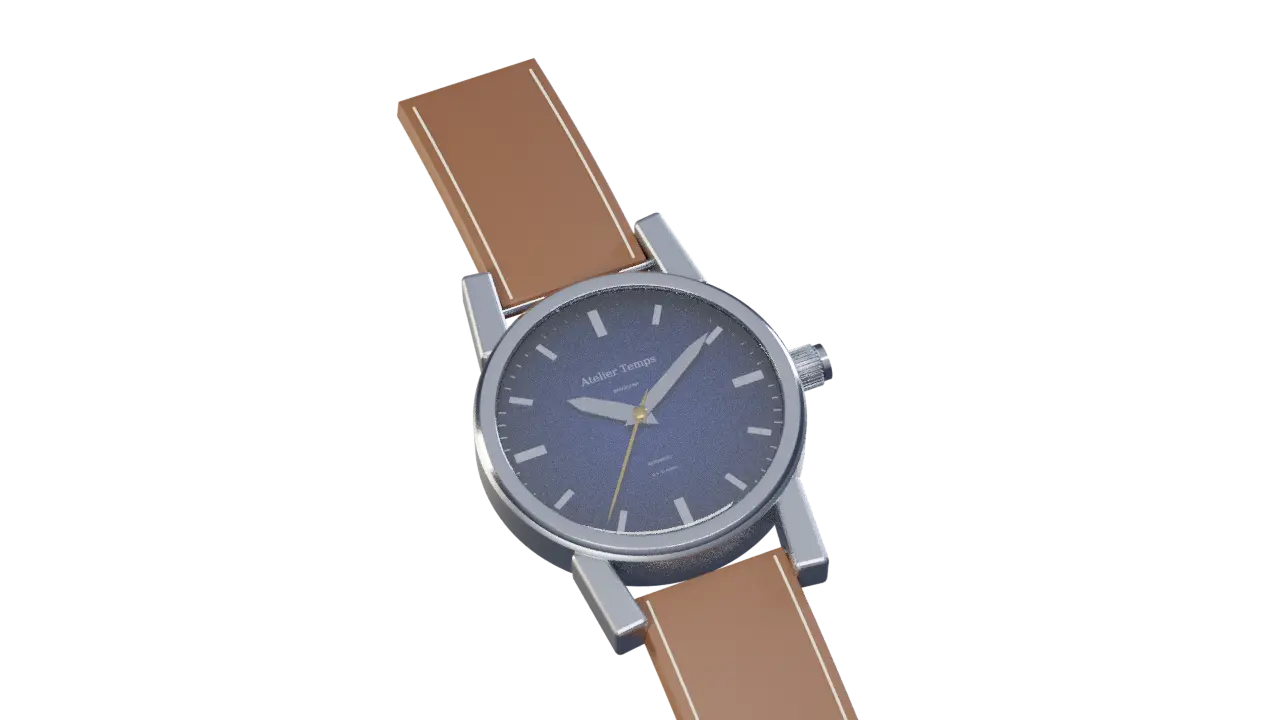
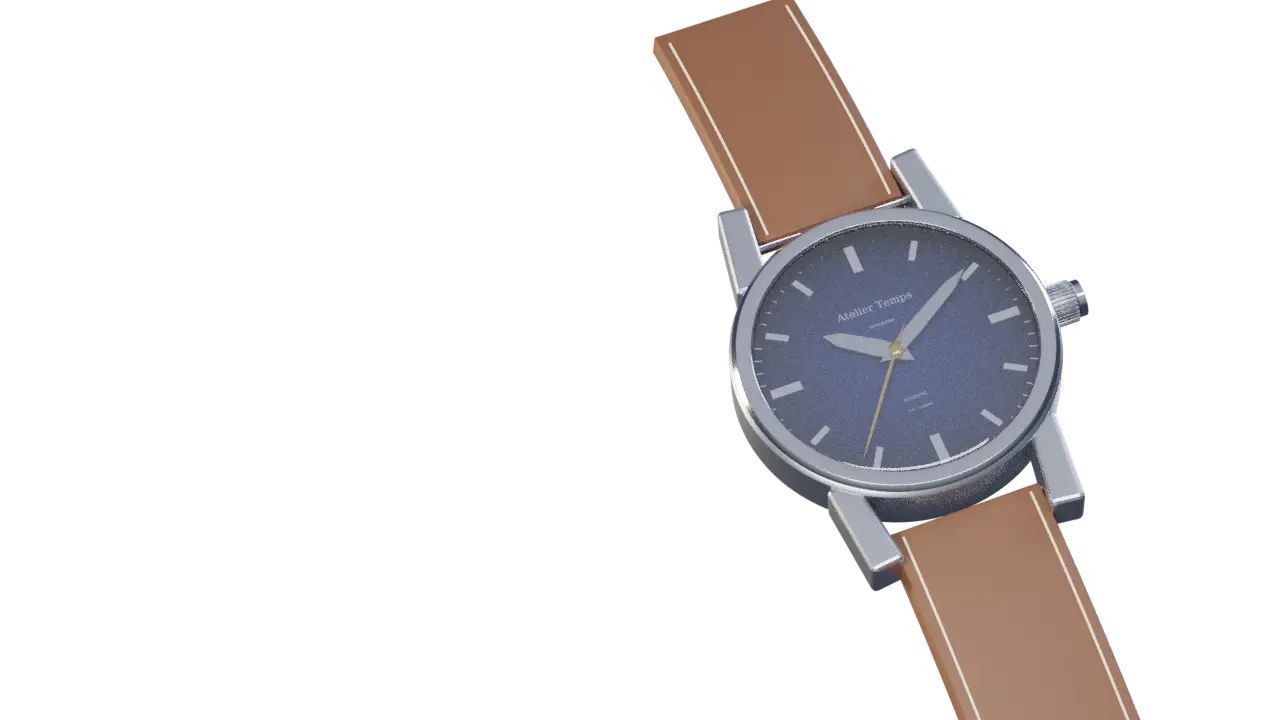
Atelier Temps: fotogrames amb el seu temps (més junts als moviments ràpids), carregador adaptat (en curs)
Claude-Session: https://claude.ai/code/session_01NSfSe5gGwyXwRHJVAdnmRh

diff --git a/mostres/atelier-temps.html b/mostres/atelier-temps.html
@@ -145,7 +145,9 @@ body{color:var(--ink);font-family:var(--sans);-webkit-font-smoothing:antialiased
 (() => {
   document.getElementById('back').addEventListener('click', e => { if (history.length > 1 && document.referrer) { e.preventDefault(); history.back(); } });
   const canvas = document.getElementById('scene'), ctx = canvas.getContext('2d');
-  const FOTOGRAMES = 144, AMPLADA = 1280, ALCADA = 720, CARPETA = 'atelier/';
+  let FOTOGRAMES = 144;   // el nombre real i el temps (0 a 1) de cada fotograma vénen d'etiquetes.json
+  const AMPLADA = 1280, ALCADA = 720, CARPETA = 'atelier/';
+  let temps = null;
   const nomFotograma = i => `${CARPETA}f${String(i).padStart(3, '0')}.webp`;
   const clamp = (v, a = 0, b = 1) => Math.min(b, Math.max(a, v));
   const ss = (a, b, v) => { const t = clamp((v - a) / (b - a)); return t * t * (3 - 2 * t); };
@@ -153,33 +155,40 @@ body{color:var(--ink);font-family:var(--sans);-webkit-font-smoothing:antialiased
   const instantani = location.hash === '#instant' || reduit;
 
   /* ---------- càrrega progressiva: primer els fotogrames clau, després els del mig ---------- */
-  const imatges = new Array(FOTOGRAMES).fill(null);
-  let carregats = 0;
+  let imatges = [], carregats = 0, posicions = null;
   const carrega = i => new Promise(ok => {
     const im = new Image(); im.decoding = 'async';
     im.onload = () => { imatges[i] = im; carregats++; ok(); };
     im.onerror = ok;
     im.src = nomFotograma(i);
   });
-  const ordre = [];
-  for (const pas of [24, 12, 6, 3, 1]) for (let i = 0; i < FOTOGRAMES; i += pas) if (!ordre.includes(i)) ordre.push(i);
-  ordre.push(FOTOGRAMES - 1);
-  (async () => {
-    // els 7 primers (cada 24) ja permeten veure tot el recorregut; la resta s'omple mentre l'usuari llegeix
-    await Promise.all(ordre.slice(0, 7).map(carrega));
+  async function comenca(){
+    const d = await fetch(CARPETA + 'etiquetes.json').then(r => r.json());
+    FOTOGRAMES = d.fotogrames; temps = d.temps; posicions = d.etiquetes; imatges = new Array(FOTOGRAMES).fill(null);
+    const ordre = [];
+    for (const pas of [24, 12, 6, 3, 1]) for (let i = 0; i < FOTOGRAMES; i += pas) if (!ordre.includes(i)) ordre.push(i);
+    if (!ordre.includes(FOTOGRAMES - 1)) ordre.push(FOTOGRAMES - 1);
+    // els 8 primers ja permeten veure tot el recorregut; la resta s'omple mentre l'usuari llegeix
+    await Promise.all(ordre.slice(0, 8).map(carrega));
     document.getElementById('load').classList.add('done');
-    const resta = ordre.slice(7), grup = 4;
+    const resta = ordre.slice(8), grup = 4;
     for (let k = 0; k < resta.length; k += grup) await Promise.all(resta.slice(k, k + grup).map(carrega));
-  })();
+  }
+  comenca();
   const mesProper = i => { for (let d = 0; d < FOTOGRAMES; d++) { const a = imatges[i - d] || imatges[i + d]; if (a) return a; } return null; };
+  // progrés (0 a 1) → fotograma anterior, el següent i on som entre tots dos
+  const buscaFotograma = p => {
+    if (!temps) return [0, 0, 0];
+    let lo = 0, hi = FOTOGRAMES - 1;
+    while (hi - lo > 1){ const mig = (lo + hi) >> 1; if (temps[mig] <= p) lo = mig; else hi = mig; }
+    return [lo, hi, clamp((p - temps[lo]) / ((temps[hi] - temps[lo]) || 1))];
+  };
 
   /* ---------- etiquetes: posicions per fotograma (mesurades a Blender) ---------- */
   const ETIQUETES = [['vidre', 'Vidre de safir antireflex'], ['hora', "Agulles d'acer polit"], ['esfera', 'Esfera de raigs de sol'], ['platina', 'Platina amb perlat'],
     ['engranatges', "Tren d'engranatges i volant"], ['ponts', 'Ponts amb Côtes de Genève'], ['rotor', "Rotor d'or de 18 quirats"], ['fons', 'Fons de safir']];
   const contenidor = document.getElementById('tags');
   const elsEtiqueta = ETIQUETES.map(([, text]) => { const d = document.createElement('div'); d.className = 'tag'; d.innerHTML = `<span>${text}</span>`; contenidor.appendChild(d); return d; });
-  let posicions = null;
-  fetch(CARPETA + 'etiquetes.json').then(r => r.json()).then(d => { posicions = d.etiquetes; ultim = -1; }).catch(() => {});
 
   /* ---------- configurador: 12 combinacions renderitzades (3 esferes × 4 corretges) ---------- */
   const ESFERES = ['blau', 'negre', 'crema'], CORRETGES = ['marro', 'negre', 'blau', 'verd'];
@@ -215,14 +224,14 @@ body{color:var(--ink);font-family:var(--sans);-webkit-font-smoothing:antialiased
   let ultim = -1, ultimVariant = -1;
 
   function dibuixa(p){
-    const f = p * (FOTOGRAMES - 1), i0 = Math.floor(f), i1 = Math.min(FOTOGRAMES - 1, i0 + 1);
-    const a = ss(.25, .75, f - i0);   // el fos creuat només passa al mig: la major part del temps es veu un sol fotograma, net
+    const [i0, i1, q0] = buscaFotograma(p), f = i0 + q0;
+    const a = ss(.25, .75, q0);   // el fos creuat només passa al mig: la major part del temps es veu un sol fotograma, net
     // pantalles verticals: Blender desplaça el rellotge a un costat perquè no tapi el text; aquí el tornem al centre i, a la portada, el baixem una mica
     let ox = desX, oy = desY;
     if (vertical){
-      const dA = posicions ? posicions[i0]._desplacament : [0, 0], dB = posicions ? posicions[i1]._desplacament : [0, 0], q0 = f - i0;
+      const dA = posicions ? posicions[i0]._desplacament : [0, 0], dB = posicions ? posicions[i1]._desplacament : [0, 0];
       ox += (dA[0] + (dB[0] - dA[0]) * q0) * AMPLADA * escala;
-      oy += -(dA[1] + (dB[1] - dA[1]) * q0) * AMPLADA * escala + innerHeight * .17 * (1 - ss(.04, .14, p));
+      oy += -(dA[1] + (dB[1] - dA[1]) * q0) * AMPLADA * escala + 0;
     }
     const clau = `${i0}|${a.toFixed(3)}|${variantAlfa.toFixed(2)}|${canvas.width}|${carregats}|${ox.toFixed(1)}|${oy.toFixed(1)}`;   // carregats: quan arriba un fotograma nou, es torna a dibuixar
     if (clau !== ultim){
@@ -241,7 +250,7 @@ body{color:var(--ink);font-family:var(--sans);-webkit-font-smoothing:antialiased
     ETIQUETES.forEach(([nom], k) => {
       const el = elsEtiqueta[k];
       if (!posicions || op < .01){ el.style.opacity = 0; return; }
-      const A = posicions[i0][nom], B = posicions[i1][nom], q = f - i0;
+      const A = posicions[i0][nom], B = posicions[i1][nom], q = q0;
       const u = A[0] + (B[0] - A[0]) * q, v = A[1] + (B[1] - A[1]) * q;
       el.style.left = (ox + u * AMPLADA * escala + 14) + 'px'; el.style.top = (oy + v * ALCADA * escala) + 'px';
       el.style.opacity = op.toFixed(3);

diff --git a/src/3d/atelier.py b/src/3d/atelier.py
@@ -483,6 +483,23 @@ if MODE == 'prova':
 elif MODE == 'temps':   # fotogrames sols, per mirar el guió: ... temps 0.2,0.35,0.6
     for t in [float(x) for x in args[3].split(',')]:
         aplica(t); renderitza(f'temps-{t:.2f}.png')
+elif MODE == 'densa':
+    # Fotogrames més junts allà on el moviment és ràpid (el gir cap al fons, l'entrada al cor i el muntatge final), perquè el fos creuat no es noti.
+    # Cada fotograma es desa amb el seu temps (t00000.png ... t10000.png). Només es renderitzen els que falten: es poden reaprofitar els d'abans.
+    base = [round(i / 143, 4) for i in range(144)]
+    extres = []
+    for a, b, k in [(0.16, 0.30, 2), (0.58, 0.66, 3), (0.86, 0.95, 3)]:
+        pas = [t for t in base if a <= t <= b]
+        for t0, t1 in zip(pas[:-1], pas[1:]):
+            extres += [round(t0 + (t1 - t0) * j / k, 4) for j in range(1, k)]
+    temps = sorted(set(base + extres))
+    etiquetes = []
+    for t in temps:
+        aplica(t); etiquetes.append(posicions_etiquetes())
+        nom = f't{round(t * 10000):05d}.png'
+        if not os.path.exists(os.path.join(SORTIDA, nom)):
+            renderitza(nom); print('FOTOGRAMA', nom)
+    with open(os.path.join(SORTIDA, 'etiquetes.json'), 'w') as f: json.dump({'fotogrames': len(temps), 'temps': temps, 'etiquetes': etiquetes}, f)
 elif MODE == 'meta':   # només recalcula etiquetes i desplaçaments (sense renderitzar)
     etiquetes = []
     for i in range(N_FOTOGRAMES):
